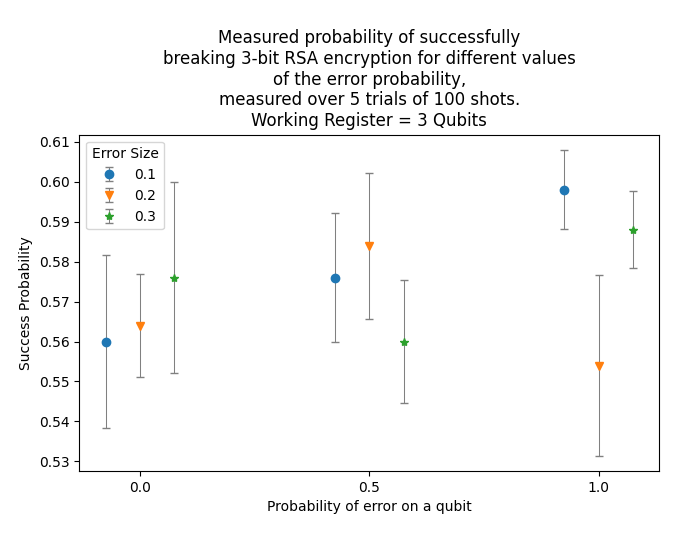
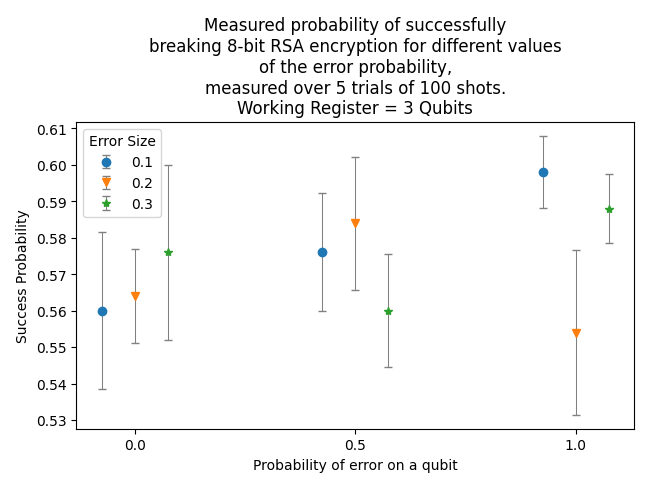
cum balls shit piss did tests

diff --git a/Code/RSA_breaker.py b/Code/RSA_breaker.py
@@ -164,7 +164,7 @@ def plot_data(y_file,err_file):
 	error_size_list = [0.1,0.2,0.3]
 	
 	
-	bitnumber = 3
+	bitnumber = 4
 	shots = 100
 	trials = 5
 	errorp_step = 0.5
@@ -182,7 +182,7 @@ def plot_data(y_file,err_file):
 	plt.ylabel("Success Probability")
 	plt.legend(title="Error Size")
 	plt.title("""Measured probability of successfully
-breaking 3-bit RSA encryption for different values
+breaking 8-bit RSA encryption for different values
 of the error probability,
 measured over {} trials of {} shots.
 Working Register = {} Qubits""".format(trials,shots,bitnumber)
@@ -192,7 +192,7 @@ Working Register = {} Qubits""".format(trials,shots,bitnumber)
 
 if __name__=="__main__":
 	#main()
-	test_errorp()
-	#plot_data("1678388528/y","1678388528/errors")
+	#test_errorp()
+	plot_data("1678447330/y","1678447330/errors")
 	#while True:
 	#	crack_key(verbose=True)

diff --git a/Code/shor_tester.py b/Code/shor_tester.py
@@ -57,7 +57,7 @@ def test_errorp():
 		print("------------------------------------------")
 		print("Error Size = {}".format(error_size))
 		target = 15
-		bitnumber = 3
+		bitnumber = 4
 		a = 7
 		shots = 100
 		trials = 20
@@ -110,7 +110,7 @@ Working Register = {} Qubits""".format(target,trials,shots,bitnumber)
 
 def test_shor_outputs():
 	target = 15
-	main_register_bitnumber = 3
+	main_register_bitnumber = 4
 	a = 7
 	shots = 500
 	trials = 30
